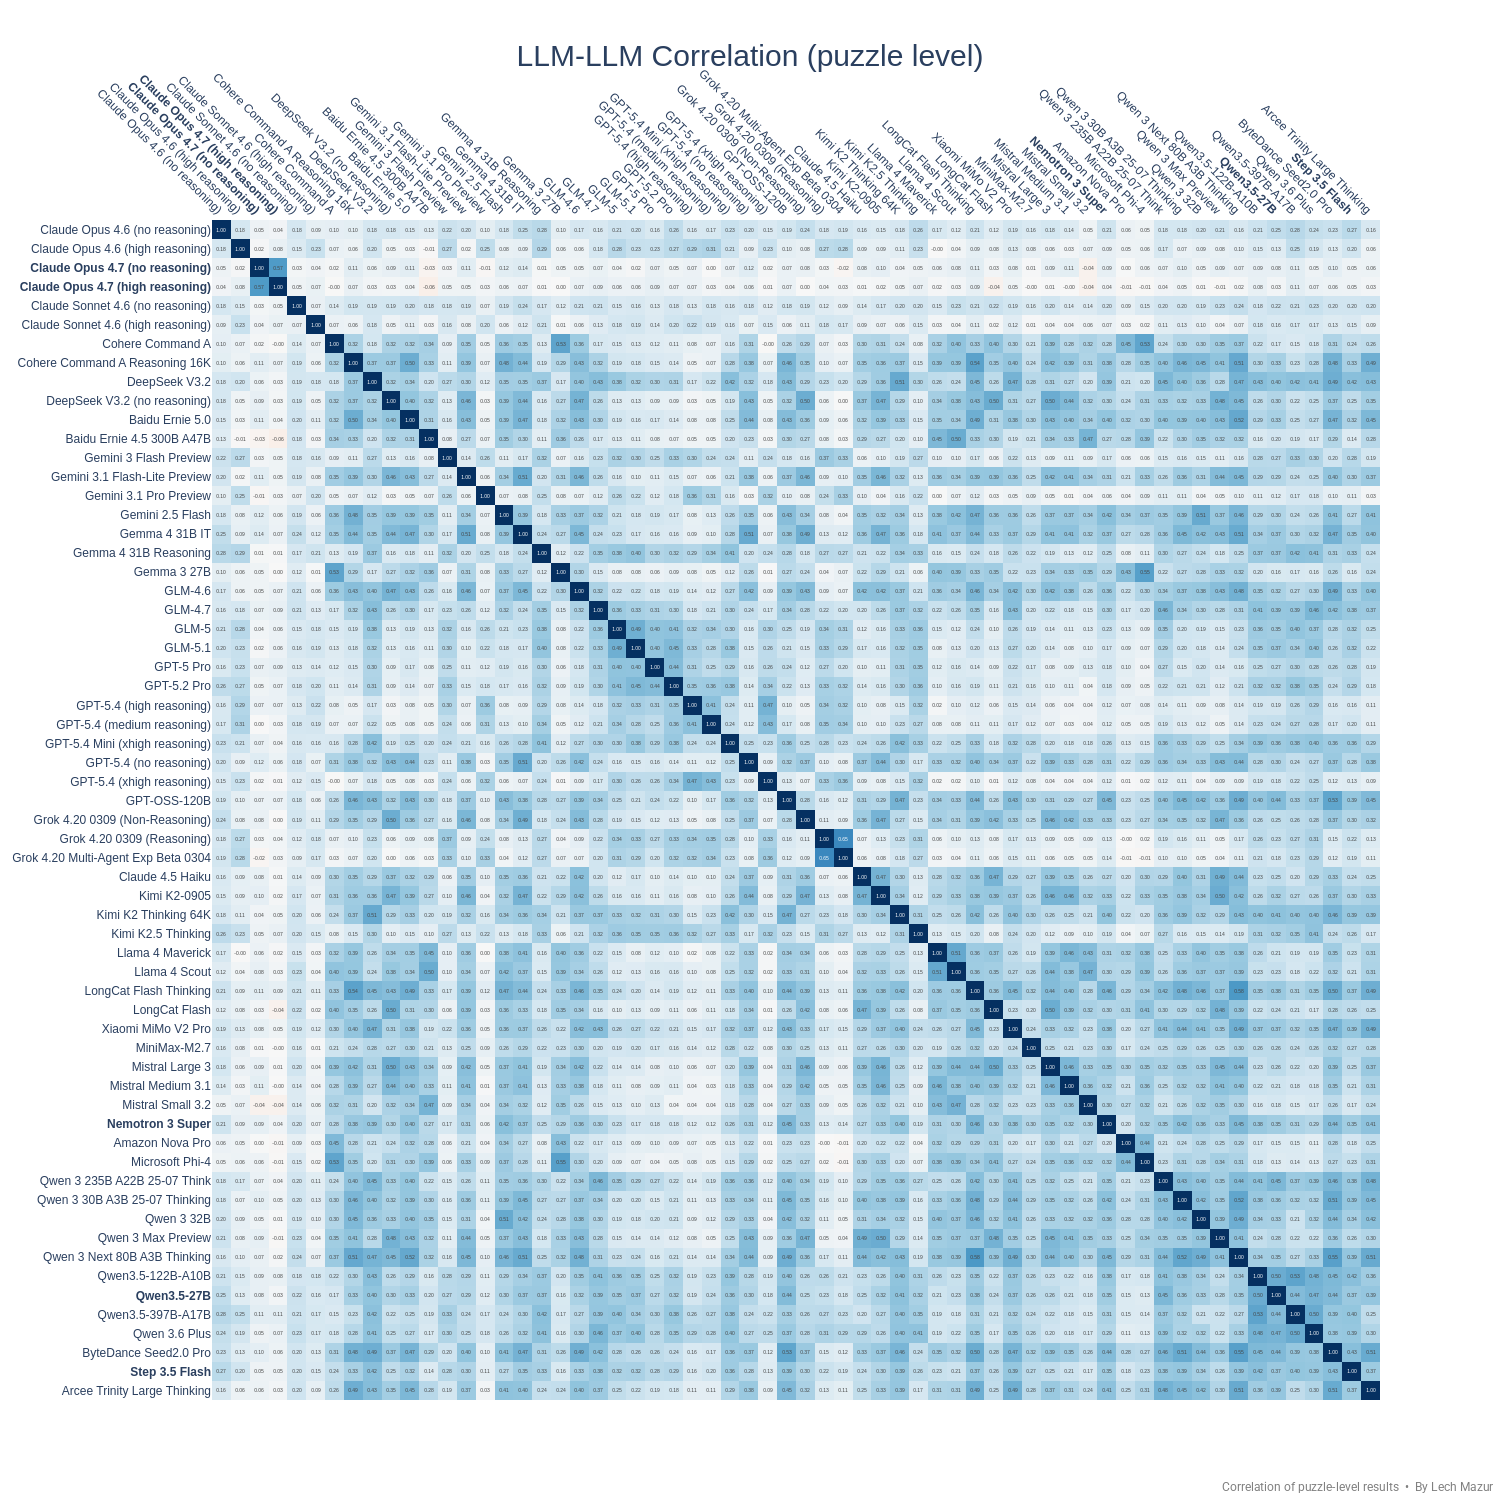
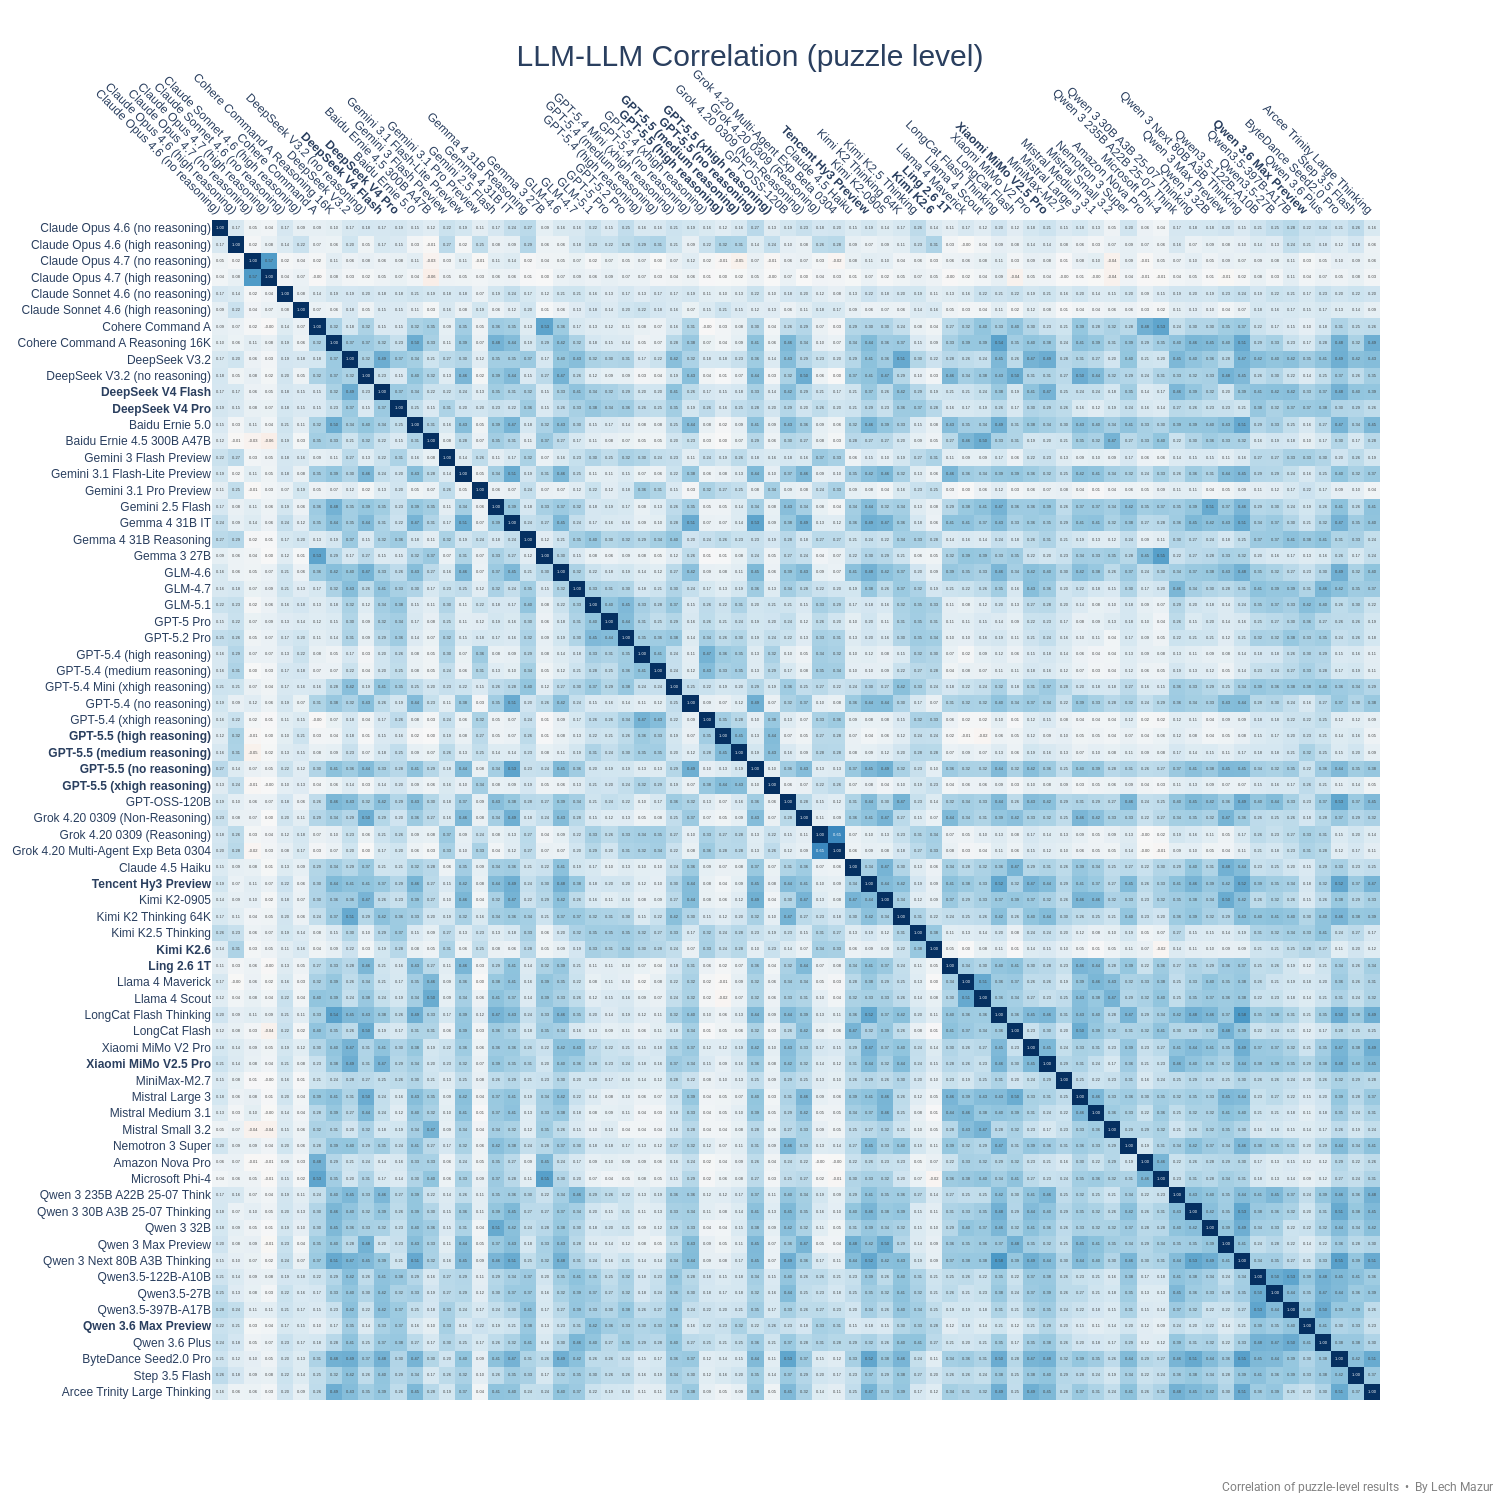
GPT-5.5, Kimi K2.6, Ling 2.6 1T, Tencent Hy3 Preview, DeepSeek V4 Pro, DeepSeek V4 Flash, Qwen 3.6 Max Preview added.

diff --git a/README.md b/README.md
@@ -13,67 +13,77 @@ As of Feb 4, 2025, there is a new version of the benchmark. The standard NYT Con
 |Rank|Model|Score %|#Puzzles|
 |---:|-----|------:|-------:|
 |1|Gemini 3.1 Pro Preview|98.4|940|
-|2|gemini-3-pro-preview|96.3|940|
-|3|Claude Opus 4.6 (high reasoning)|94.7|940|
-|4|GPT-5.4 (xhigh reasoning)|94.0|940|
-|5|GPT-5.4 (high reasoning)|93.6|940|
-|6|Grok 4.20 Multi-Agent Exp Beta 0304|93.4|940|
-|7|GPT-5.4 (medium reasoning)|91.9|940|
-|8|grok-4-1-fast-reasoning|91.7|940|
-|9|Grok 4.20 0309 (Reasoning)|90.3|940|
-|10|grok-4.20-experimental-beta-0304-reasoning|89.5|940|
-|11|gpt-5.2-xhigh|88.6|940|
-|12|Gemini 3 Flash Preview|88.4|940|
-|13|GPT-5.2 Pro|85.7|940|
-|14|Claude Sonnet 4.6 (high reasoning)|85.7|940|
-|15|GLM-5.1|84.3|940|
-|16|Claude Sonnet 4.6 Thinking 32K|82.4|940|
-|17|GLM-5|81.7|940|
-|18|Claude Opus 4.6 Thinking 16K|81.7|940|
-|19|Gemma 4 31B Reasoning|79.5|940|
-|20|Kimi K2.5 Thinking|78.3|940|
-|21|gpt-5.2-high|77.5|940|
-|22|GPT-5.4 Mini (xhigh reasoning)|71.8|940|
-|23|gpt-5.2-medium|71.4|940|
-|24|Qwen 3.6 Plus|71.3|940|
-|25|Qwen3.5-397B-A17B|69.2|940|
-|26|gpt-5.2-low|66.7|940|
-|27|Qwen3.5-122B-A10B|63.6|940|
-|28|Claude Opus 4.5 Thinking 16K|62.6|940|
-|29|Qwen3.5-27B|60.7|940|
-|30|Claude Opus 4.5 (no reasoning)|60.3|940|
-|31|Claude Sonnet 4.6 Thinking 16K|57.6|940|
-|32|Claude Opus 4.6 (no reasoning)|55.9|940|
-|33|Claude Sonnet 4.6 (no reasoning)|55.0|940|
-|34|DeepSeek V3.2|50.2|940|
-|35|Claude Sonnet 4.5 Thinking 16K|49.4|940|
-|36|Claude Sonnet 4.5 (no reasoning)|47.4|940|
-|37|qwen3-max-2026-01-23|42.1|940|
-|38|ByteDance Seed2.0 Pro|42.1|940|
-|39|Claude Opus 4.7 (high reasoning)|41.0|940|
-|40|Xiaomi MiMo V2 Pro|40.9|940|
-|41|Step 3.5 Flash|39.9|940|
-|42|MiniMax-M2.7|35.2|940|
-|43|GPT-5.4 (no reasoning)|32.8|940|
-|44|LongCat Flash Thinking|31.0|940|
-|45|Gemma 4 31B IT|30.1|940|
-|46|minimax-m2.5|29.6|940|
-|47|Arcee Trinity Large Thinking|29.5|940|
-|48|gpt-5.2-none|28.1|940|
-|49|minimax-m2|27.0|940|
-|50|Claude 4.5 Haiku|26.0|940|
-|51|grok-4-1-fast-non-reasoning|25.1|940|
-|52|qwen3-max-thinking|24.1|940|
-|53|minimax-m2.1|22.7|940|
-|54|Baidu Ernie 5.0|21.2|940|
-|55|Gemini 3.1 Flash-Lite Preview|19.7|940|
-|56|Grok 4.20 0309 (Non-Reasoning)|19.2|940|
-|57|Llama 4 Maverick|18.4|940|
-|58|DeepSeek V3.2 (no reasoning)|17.8|940|
-|59|grok-4.20-experimental-beta-0304-non-reasoning|17.6|940|
-|60|Mistral Large 3|17.2|940|
-|61|Mistral Medium 3.1|15.5|940|
-|62|Claude Opus 4.7 (no reasoning)|15.3|940|
+|2|GPT-5.5 (xhigh reasoning)|97.5|940|
+|3|GPT-5.5 (high reasoning)|96.9|940|
+|4|Gemini 3 Pro Preview|96.3|940|
+|5|GPT-5.5 (medium reasoning)|95.0|940|
+|6|Claude Opus 4.6 (high reasoning)|94.7|940|
+|7|GPT-5.4 (xhigh reasoning)|94.0|940|
+|8|GPT-5.4 (high reasoning)|93.6|940|
+|9|Grok 4.20 Multi-Agent Exp Beta 0304|93.4|940|
+|10|GPT-5.4 (medium reasoning)|92.0|940|
+|11|Grok 4.1 Fast Reasoning|91.8|940|
+|12|Kimi K2.6|91.4|940|
+|13|Grok 4.20 0309 (Reasoning)|90.4|940|
+|14|Grok 4.20 Reasoning Exp Beta 0304|89.5|940|
+|15|GPT-5.2 (xhigh reasoning)|88.6|940|
+|16|Gemini 3 Flash Preview|88.4|940|
+|17|GPT-5.2 Pro|85.7|940|
+|18|Claude Sonnet 4.6 (high reasoning)|85.7|940|
+|19|GLM-5.1|84.4|940|
+|20|Claude Sonnet 4.6 Thinking 32K|82.4|940|
+|21|Qwen 3.6 Max Preview|82.2|940|
+|22|GLM-5|81.8|940|
+|23|Claude Opus 4.6 Thinking 16K|81.7|940|
+|24|Gemma 4 31B Reasoning|79.5|940|
+|25|Kimi K2.5 Thinking|78.3|940|
+|26|GPT-5.2 (high reasoning)|77.5|940|
+|27|DeepSeek V4 Pro|75.7|940|
+|28|GPT-5.4 Mini (xhigh reasoning)|71.8|940|
+|29|GPT-5.2 (medium reasoning)|71.4|940|
+|30|Qwen 3.6 Plus|71.3|940|
+|31|Qwen3.5-397B-A17B|69.3|940|
+|32|GPT-5.2 (low reasoning)|66.8|940|
+|33|Qwen3.5-122B-A10B|63.6|940|
+|34|Claude Opus 4.5 Thinking 16K|62.6|940|
+|35|Qwen3.5-27B|60.8|940|
+|36|Claude Opus 4.5 (no reasoning)|60.3|940|
+|37|Claude Sonnet 4.6 Thinking 16K|57.6|940|
+|38|Claude Opus 4.6 (no reasoning)|56.8|940|
+|39|Claude Sonnet 4.6 (no reasoning)|55.2|940|
+|40|DeepSeek V4 Flash|53.2|940|
+|41|DeepSeek V3.2|50.2|940|
+|42|Claude Sonnet 4.5 Thinking 16K|49.4|940|
+|43|Claude Sonnet 4.5 (no reasoning)|47.4|940|
+|44|Qwen3 Max (2026-01-23)|42.1|940|
+|45|ByteDance Seed2.0 Pro|42.1|940|
+|46|Claude Opus 4.7 (high reasoning)|41.0|940|
+|47|Xiaomi MiMo V2 Pro|41.0|940|
+|48|GPT-5.5 (no reasoning)|37.5|940|
+|49|Step 3.5 Flash|36.7|940|
+|50|MiniMax-M2.7|35.3|940|
+|51|GPT-5.4 (no reasoning)|32.8|940|
+|52|LongCat Flash Thinking|31.0|940|
+|53|Tencent Hy3 Preview|30.2|940|
+|54|Gemma 4 31B IT|30.1|940|
+|55|MiniMax-M2.5|29.6|940|
+|56|Arcee Trinity Large Thinking|29.5|940|
+|57|GPT-5.2 (no reasoning)|28.1|940|
+|58|MiniMax-M2|27.0|940|
+|59|Claude 4.5 Haiku|26.0|940|
+|60|Grok 4.1 Fast Non-Reasoning|25.1|940|
+|61|Qwen 3 Max Thinking|24.2|940|
+|62|MiniMax-M2.1|22.7|940|
+|63|Baidu Ernie 5.0|21.2|940|
+|64|Gemini 3.1 Flash-Lite Preview|19.7|940|
+|65|Grok 4.20 0309 (Non-Reasoning)|19.2|940|
+|66|Llama 4 Maverick|18.4|940|
+|67|DeepSeek V3.2 (no reasoning)|17.8|940|
+|68|Grok 4.20 Non-Reasoning Exp Beta 0304|17.6|940|
+|69|Mistral Large 3|17.2|940|
+|70|Mistral Medium 3.1|15.5|940|
+|71|Claude Opus 4.7 (no reasoning)|15.3|940|
+|72|Ling 2.6 1T|10.8|940|
 
 
 
@@ -115,7 +125,7 @@ o1, with a 98.9% win rate, comes close to this elite level. o1-pro, which has no
 
 # Original NYT Connections LLM Benchmark
 
-This benchmark evaluates large language models (LLMs) using 436 NYT Connections puzzles. Three different prompts, not optimized for LLMs through prompt engineering, are used. Both uppercase and lowercase puzzles are assessed.
+This benchmark evaluates large language models (LLMs) using 436 NYT Connections puzzles. Three different prompts, not optimized for LLMs through prompt engineering, are used. Both uppercase and lowercase puzzles are assessed. Easier - no extra words added.
 
 ### Chart: Original Version
 
@@ -272,10 +282,9 @@ These models are excluded from the main board because they ran fewer than 940 to
 ---
 
 ## Notes
-- Claude Opus 4.7 refuses a lot of requests.
+- Claude Opus 4.7 refuses a lot of requests and therefore scores poorly.
 - Partial credit is awarded if the puzzle isn't completely solved. 
 - Only one attempt is allowed per puzzle. Humans solving puzzles on the NYT website get four attempts and a notification when they're one step away from the solution.
-- Multi-turn ensemble is my unpublished system. It utilizes multiple LLMs, multi-turn dialogues, and other proprietary techniques. It is slower and more costly to run but it does very well. It [outperforms](https://x.com/LechMazur/status/1828804485033992514/photo/1) non-o1 LLMs on MMLU-Pro and GPQA.
 - This benchmark is not affiliated with the New York Times
 
 ---
@@ -299,7 +308,8 @@ These models are excluded from the main board because they ran fewer than 940 to
 ---
 
 ## Updates
-- April 16, 2025: Claude Opus 4.7 added.
+- April 25, 2026: GPT-5.5, Kimi K2.6, Ling 2.6 1T, Tencent Hy3 Preview, DeepSeek V4 Pro, DeepSeek V4 Flash, Qwen 3.6 Max Preview added.
+- April 16, 2026: Claude Opus 4.7 added.
 - April 15, 2026: GLM-5.1, Step 3.5 Flash, Qwen3.5-27B added.
 - April 6, 2026: GPT 5.4 (high), Gemma 4 31B Reasoning, Qwen3.5-122B-A10B added.
 - April 4, 2026: MiniMax-M2.7 added.
